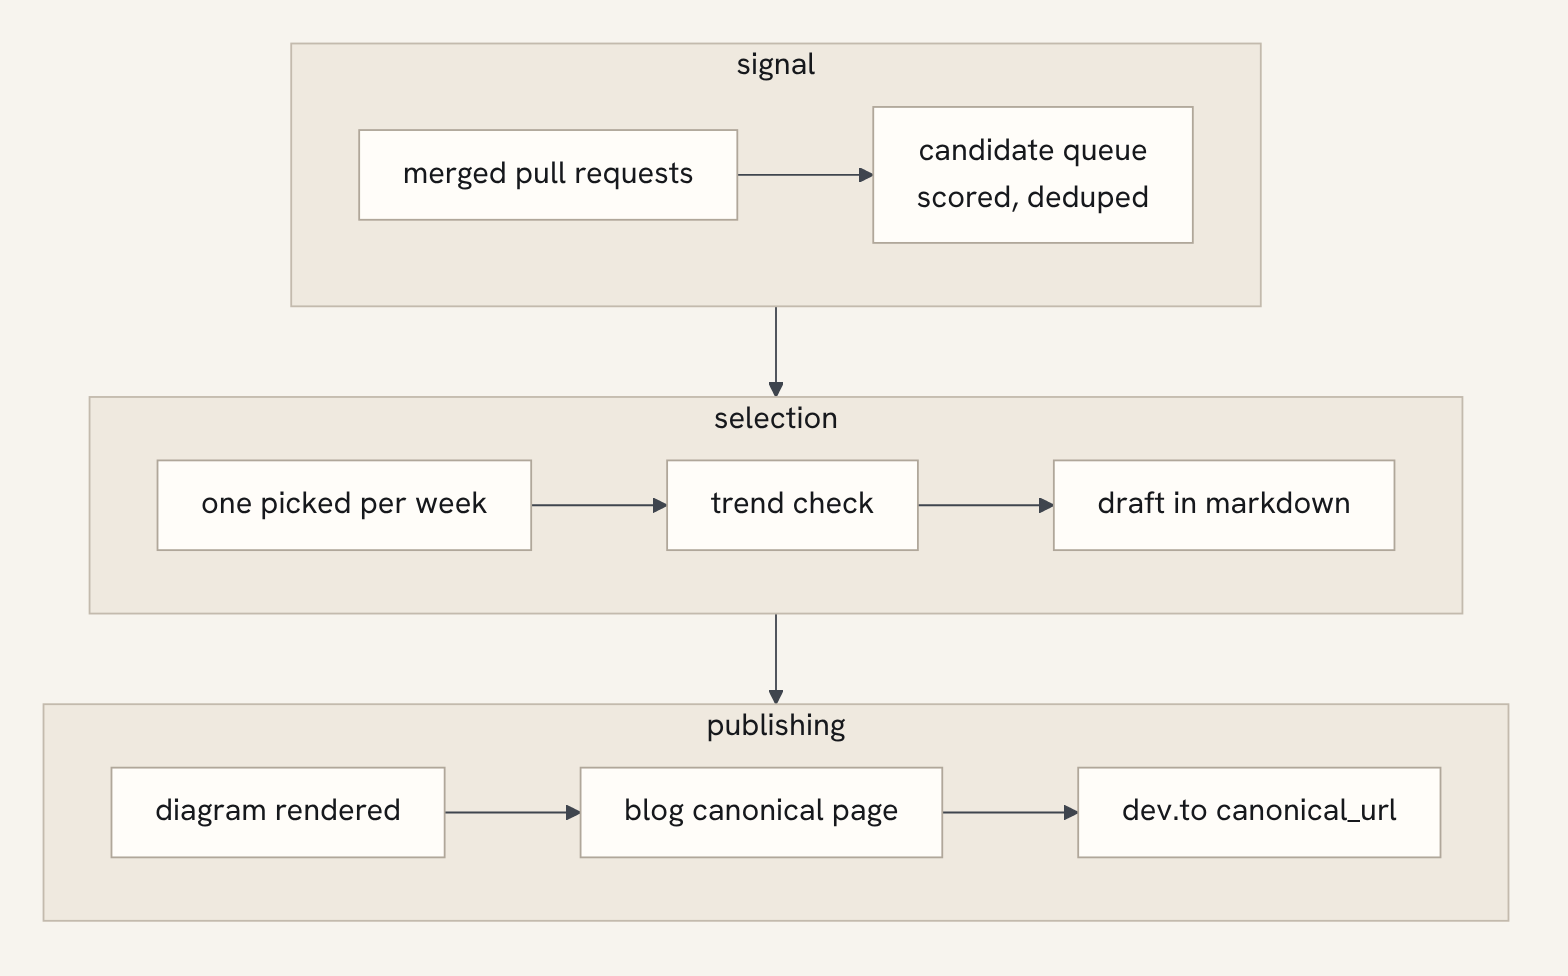
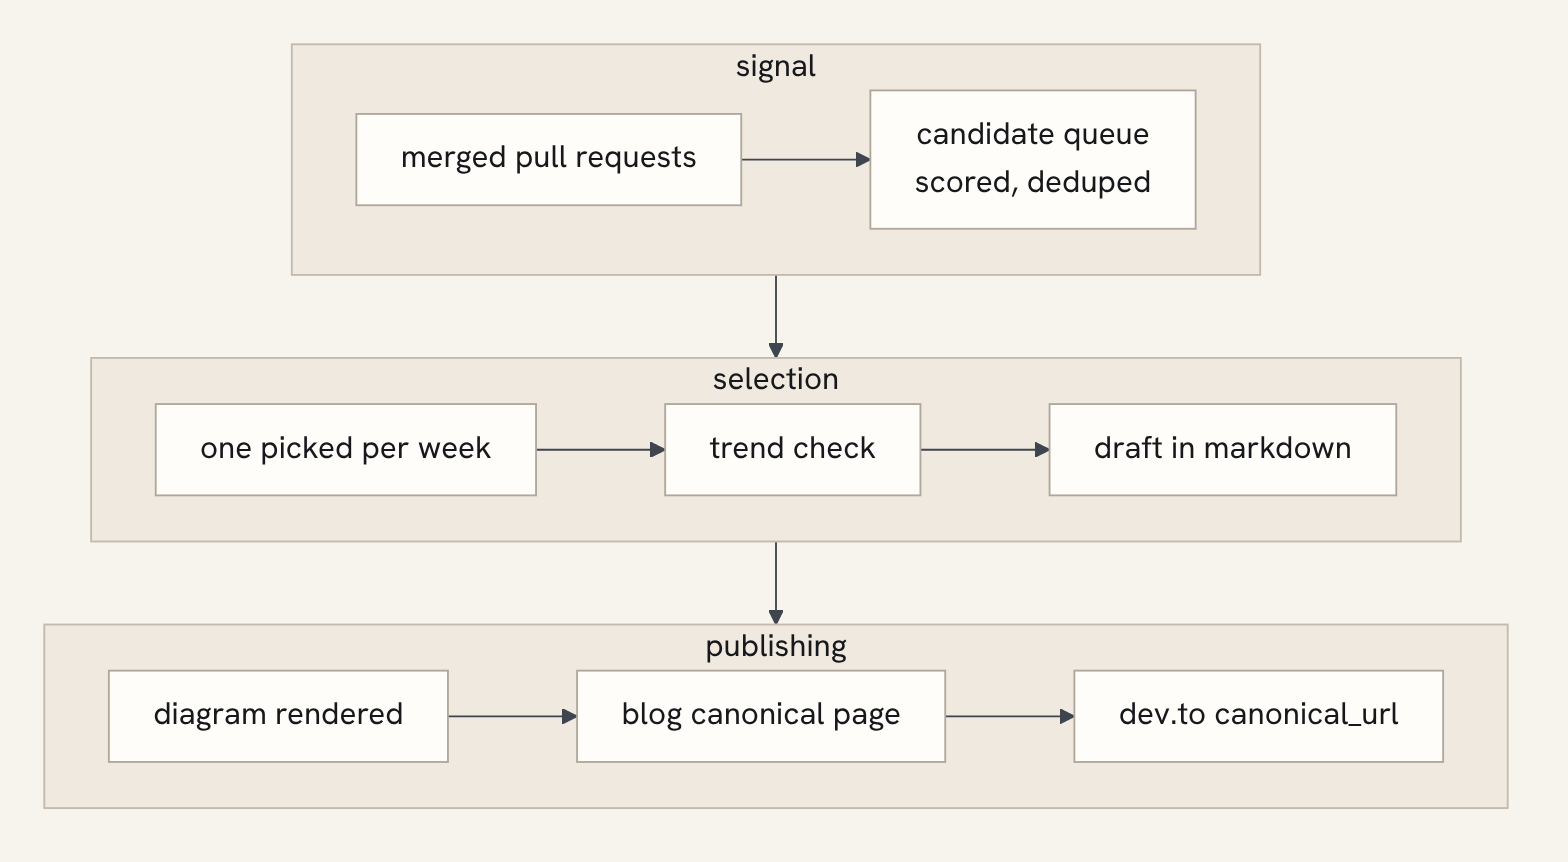
diagrams: new CFG137 diagram, canvas checked for clipped labels (#14)

diff --git a/src/content/posts/why-this-blog-exists.md b/src/content/posts/why-this-blog-exists.md
@@ -33,7 +33,7 @@ are the source of truth, and a push rebuilds the published site.
 ## Where else this appears
 
 <figure>
-  <img src="/diagrams/why-this-blog-exists-0.svg" alt="Publishing flow in three stages. Signal: merged pull requests enter a candidate queue that is scored and deduplicated. Selection: one candidate is picked per week, trend-checked, then drafted in markdown. Publishing: the diagram is rendered, the article goes live here as the canonical page, and is cross-posted to dev.to with canonical_url." width="858" height="532" loading="lazy" decoding="async">
+  <img src="/diagrams/why-this-blog-exists-0.svg" alt="Publishing flow in three stages. Signal: merged pull requests enter a candidate queue that is scored and deduplicated. Selection: one candidate is picked per week, trend-checked, then drafted in markdown. Publishing: the diagram is rendered, the article goes live here as the canonical page, and is cross-posted to dev.to with canonical_url." width="843" height="462" loading="lazy" decoding="async">
   <figcaption>From merged pull request to canonical page.</figcaption>
 </figure>
 

diff --git a/src/content/posts/hidden-text-in-agent-instruction-files.md b/src/content/posts/hidden-text-in-agent-instruction-files.md
@@ -51,7 +51,7 @@ Two details make it worse than a novelty:
 ## A rule for it
 
 <figure>
-  <img src="/diagrams/hidden-text-in-agent-instruction-files-0.svg" alt="One line in AGENTS.md holds a visible instruction, a run of 150 or more blanks, and a second instruction. A reviewer in a diff sees one ordinary line, while an agent on every run reads two instructions. CFG137 reports it at warn, and --strict fails the build." width="863" height="657" loading="lazy" decoding="async">
+  <img src="/diagrams/hidden-text-in-agent-instruction-files-2.svg" alt="One line in AGENTS.md holds a visible instruction, 150 or more blanks and a hidden instruction. A reviewer sees one plain line, while an agent reads two instructions. CFG137 warns, and --strict fails the build." width="766" height="462" loading="lazy" decoding="async">
   <figcaption>One line, two readers, two different meanings.</figcaption>
 </figure>
 
